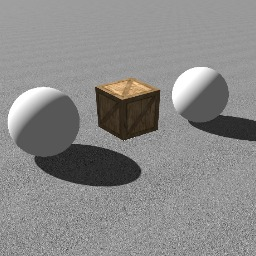
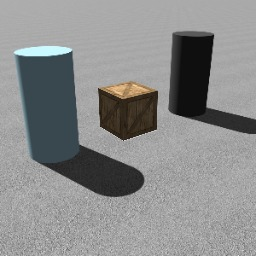
adicinando imagem 3x4

diff --git a/public/ar-app.js b/public/ar-app.js
@@ -10,8 +10,8 @@ var loader = new THREE.TextureLoader();
 var planeSize      = 150.00;
 var sPlaneSize     =  15.00;
 var sPlaneSegments = 300.00;
-var vObjHeight     =   1.25;
-var vObjRatio      =   1.75;
+var vObjHeight     =   1.20;
+var vObjRatio      =   1.00;
 var adjustX        =   0.00;
 var adjustZ        =   0.00;
 var done           =  false;
@@ -57,6 +57,14 @@ function setSource(type, url)
 
 function initialize()
 {
+	// let vec1 = new THREE.Vector3(-0.15, 0.77, -0.62)
+	// let vec2 = new THREE.Vector3(-5.25, 17.21, -14.58)
+	// //let vec1 = v;
+	// //let vec2 = new THREE.Vector3(-3, 5, -6);
+	// var ang = vec1.angleTo(vec2); // calcula dif angular
+	// console.log("Diferença angular entre vetores: " + radianosParaGraus(ang));
+	// vec2 = vec2.normalize();
+	// console.log("(" + vec2.x.toFixed(2) + ", " + vec2.y.toFixed(2) + ", "  + vec2.z.toFixed(2) + ")");
 	/**********************************************************************************************
 	 *
 	 * Cenas e iluminação
@@ -104,7 +112,7 @@ function initialize()
 	arToolkitSource = new THREEx.ArToolkitSource({
 		//sourceType: "webcam",
 		//sourceType: "video", sourceUrl: "my-videos/video5.MOV",
-		sourceType: "image", sourceUrl: "my-images/imagem_2.jpg",
+		sourceType: "image", sourceUrl: "my-images/teste_1.jpeg",
 	});
 	
 	
@@ -192,6 +200,7 @@ function initialize()
 	 *********************************************************************************************/
 
 	var cube   = new THREE.BoxBufferGeometry(vObjHeight, vObjHeight * vObjRatio, vObjHeight);
+	//var cube   = new THREE.BoxGeometry(1.2, 1.2, 1.2);
 	var plane  = new THREE.PlaneGeometry(planeSize, planeSize);
 	var splane = new THREE.PlaneGeometry(sPlaneSize, sPlaneSize, sPlaneSegments, sPlaneSegments);
 

diff --git a/public/pasta_testes/diferanca_angular.js b/public/pasta_testes/diferanca_angular.js
@@ -48,11 +48,19 @@ function angularDifferences(vetores1, vetores2) {
 
 // Exemplo de uso
 const vetores1 = [
-    [-1.0458333793700685, 3.3456444787961086, -2.6094272598500092],
+    [-0.23, 0.74, -0.63],
+    [-0.19, 0.74, -0.64],
+    [-0.08, 0.72, -0.69],
+    [0.44, 0.79, -0.43],
+    [-0.13, 0.69, -0.71],
 ];
 
 const vetores2 = [
-    [-0.5, 4, -3],
+    [-0.15, 0.77, -0.62],
+[-0.36, 0.60, -0.72],
+[-0.14, 0.70, -0.70],
+[0.41, 0.82, -0.41],
+[-0.12, 0.70, -0.70],
 ];
 //-1.33, 20.23, -12.08
 const differences = angularDifferences(vetores1, vetores2);
